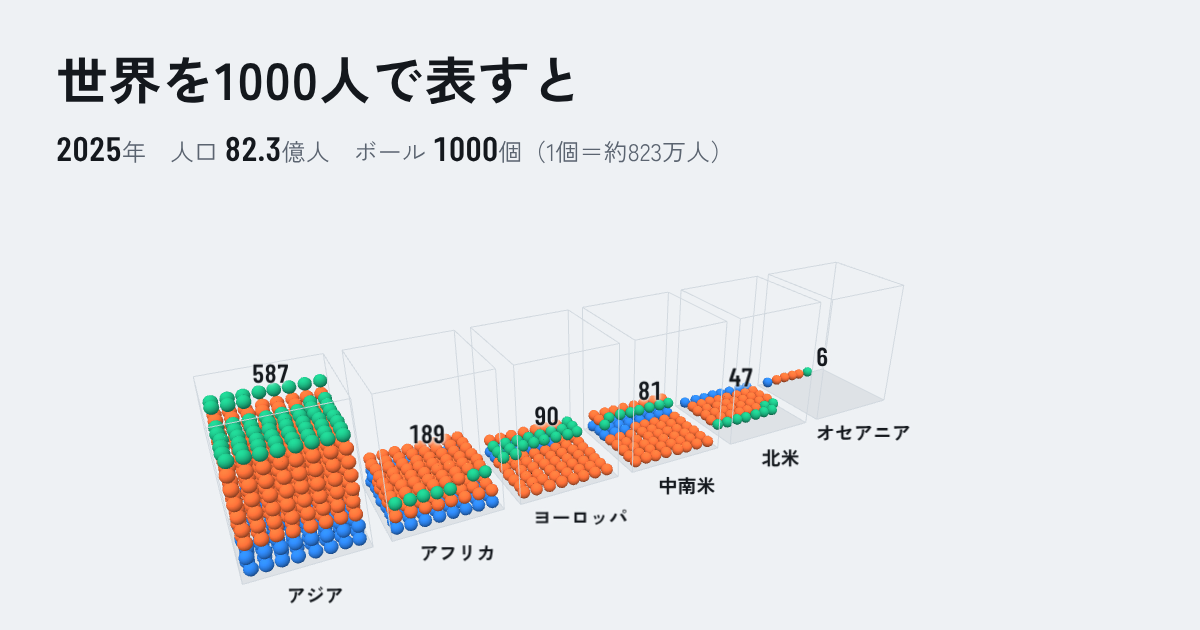
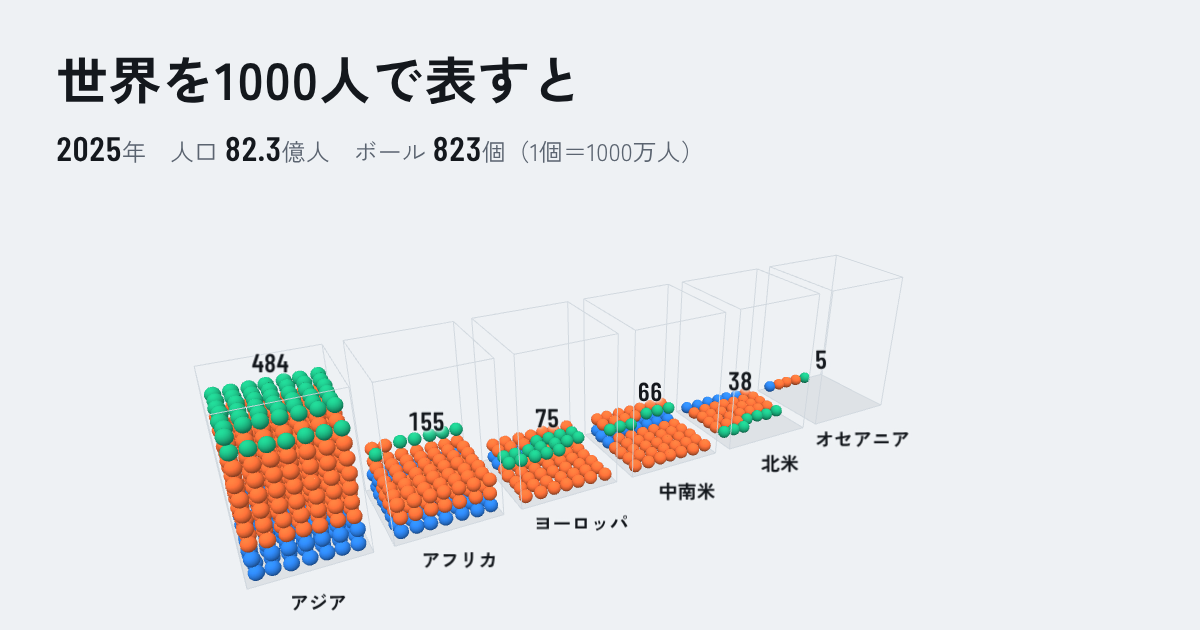
ボール1個を1000万人に変更
切りのよい単位にする。2025年は823個、1950年は249個、2075年は1025個。

Claude-Session: https://claude.ai/code/session_01PEzRMkV5e5FMVMQ2eBx1oB

Changed region(s): [[0.1542, 0.5429, 0.7708, 0.9349], [0.3392, 0.2111, 0.5858, 0.2714], [0.2467, 0.9349, 0.3083, 0.9651]]

diff --git a/index.html b/index.html
@@ -4,9 +4,9 @@
 <meta charset="utf-8">
 <meta name="viewport" content="width=device-width, initial-scale=1">
 <title>世界を1000人で表すと</title>
-<meta name="description" content="2025年の世界の人口を1000個のボールに置き換え、地域・年齢・所得で分けて見る立体グラフ。1950年から2100年まで、ボールの数で人口の増減も見られます。">
+<meta name="description" content="世界の人口を、1000万人につき1個のボールに置き換え、地域・年齢・所得で分けて見る立体グラフ。1950年から2100年まで、ボールの数で人口の増減も見られます。">
 <meta property="og:title" content="世界を1000人で表すと">
-<meta property="og:description" content="2025年の世界の人口を1000個のボールに置き換え、地域・年齢・所得で分けて見る立体グラフ。1950年から2100年まで、ボールの数で人口の増減も見られます。">
+<meta property="og:description" content="世界の人口を、1000万人につき1個のボールに置き換え、地域・年齢・所得で分けて見る立体グラフ。1950年から2100年まで、ボールの数で人口の増減も見られます。">
 <meta property="og:type" content="website">
 <meta property="og:url" content="https://world-as-1000-people.structure-and-representation.com/">
 <meta property="og:image" content="https://world-as-1000-people.structure-and-representation.com/ogp.png">
@@ -97,14 +97,14 @@ h1{padding-right:84px}
   <div class="row"><span>色</span><div class="seg" id="s-c"></div></div>
   <details id="about">
     <summary>このページについて・出典</summary>
-    <p>2025年の世界の人口を1000個のボールに置き換えた実験です。ボール1個は約823万人で、どの年でも同じです。そのため、ほかの年はボールの数が変わります（1950年は303個、2100年は1237個）。筒の底面積はすべて同じなので、高さがそのまま人数を表し、年どうしでも比べられます。</p>
+    <p>世界の人口を、1000万人につき1個のボールに置き換えた実験です。ボール1個の人数はどの年でも同じなので、年によってボールの数が変わります（1950年は249個、2025年は823個、2100年は1018個）。筒の底面積はすべて同じなので、高さがそのまま人数を表し、年どうしでも比べられます。</p>
     <p>出典：United Nations, DESA, Population Division. <a href="https://population.un.org/wpp/">World Population Prospects 2024</a>（<a href="https://creativecommons.org/licenses/by/3.0/igo/">CC BY 3.0 IGO</a>）。各年7月1日時点の人口で、2025年以降は中位推計です。年齢は3区分に集計しています。所得グループは、同データが採用する世界銀行の分類を、すべての年に当てはめています。ボールの数に丸めているため、各グループの個数には1個程度のずれが出ます。</p>
     <p>制作：矢崎裕一（Visualizing.JP）</p>
   </details>
 </div>
 <script src="https://cdnjs.cloudflare.com/ajax/libs/three.js/r128/three.min.js"></script>
 <script>
-const DATA={"years": [1950, 1975, 2000, 2025, 2050, 2075, 2100], "total": [2.493, 4.071, 6.172, 8.232, 9.664, 10.25, 10.18], "n": [303, 495, 750, 1000, 1174, 1245, 1237], "unit": 8232, "cells": {"1950": "!\"\"\"\"\"\"\"\"\"\"\"\"\"\"\"\"\"\"\"\"\"\"\"\"\"##############################$$$$$&&''''''''''''''''''''''''''''''''''''''((((((((((((((((((((((((((((((((((((((((((((((((())))))))),,----.000011111125555556666666667;@AAAAABBBBBBBBBBBBEEEFFFFFFFFFFGGGGGGGGGGGGGGGGGGGGGGGGGGGGGGKLLLLOPPPPPPPQTUUUUUUUUUVZ``````eeeeeeeeeeeeejjt{{{{{{{{{{{{{{{{{{{{{{{{{{{{{{{{{{{{{{{{{{{{{{{{{{{{{{{{{{{{{{{{{{{{{{{{{{{{{{{{{{{{{{{{{{{{{{{{{{{{{{{{{{{{{{{{{{{{{{{{{{{{{{{{{{{{{{{{{{{{{{{{{{{{{{{{{{{{{{{{{{{{{{{{{{{{{{{{{{{{{{{{{{{{{{{{{{{{{{{{{{{{{{{{{{{{{{{{{{{{{{{{{{{{{{{{{{{{{{{{{{{{{{{{{{{{{{{{{{{{{{{{{{{{{{{{{{{{{{{{{{{{{{{{{{{{{{{{{{{{{{{{{{{{{{{{{{{{{{{{{{{{{{{{{{{{{{{{{{{{{{{{{{{{{{{{{{{{{{{{{{{{{{{{{{{{{{{{{{{{{{{{{{{{{{{{{{{{{{{{{{{{{{{{{{{{{{{{{{{{{{{{{{{{{{{{{{{{{{{{{{{{{{{{{{{{{{{{{{{{{{{{{{{{{{{{{{{{{{{{{{{{{{{{{{{{{{{{{{{{{{{{{{{{{{{{{{{{{{{{{{{{{{{{{{{{{{{{{{{{{{{{{{{{{{{{{{{{{{{{{{{{{{{{{{{{{{{{{{{{{{{{{{{{{{{{{{{{{{{{{{{{{{{{{{{{{{{{{{{{{{{{{{{{{{{{{{{{{{{{{{{{{{{{{{{{{{{{{{{{{{{{{{{{{{{{{{{{{{{{{{{{{{{{{{{{{{{{{{{{{{{{{{{{{{{{{{{{{{{{{{{{{{{{{{{{{{{{{{{{{{{{{{{{{{{{{{{{{{{{{{{{{{{{{{{{{{{{{{{{{{{{{{{{{{{{{{{{{{{{{{{{{{{{{{{{{{{{{{{{{{{{{{{{{{{{{{{{{{{{{{{{{{{{{{{{{{{{{{{{{{{{{{{{{{{{{{{{{{{{{{{{{{{{{{{{{{{{{{{{{{{{{{{{{{{{{{{{{{{{{{{{{{{{{{{{{{{{{{{{{{", "1975": "!\"\"\"\"\"\"\"\"\"\"\"\"\"\"\"\"\"\"\"\"\"\"\"\"\"##############################$$$$$&&''''''''''''''''''''''''''''''''''''''((((((((((((((((((((((((((((((((((((((((((((((((())))))))),,----.000011111125555556666666667;@AAAAABBBBBBBBBBBBEEEFFFFFFFFFFGGGGGGGGGGGGGGGGGGGGGGGGGGGGGGKLLLLOPPPPPPPQTUUUUUUUUUVZ``````eeeeeeeeeeeeejjt!\"\"\"\"\"\"\"\"\"\"\"\"\"\"\"\"\"\"\"\"\"\"\"\"############################$$&'''''''''''''''''''''''''''((((((((((((((((((((((((((((((())))),,--000001111111255556666667:BEFFFFGGGGGJKLLLPPPPPPPRUUUUUUUUUVW`eeeeeejo{{{{{{{{{{{{{{{{{{{{{{{{{{{{{{{{{{{{{{{{{{{{{{{{{{{{{{{{{{{{{{{{{{{{{{{{{{{{{{{{{{{{{{{{{{{{{{{{{{{{{{{{{{{{{{{{{{{{{{{{{{{{{{{{{{{{{{{{{{{{{{{{{{{{{{{{{{{{{{{{{{{{{{{{{{{{{{{{{{{{{{{{{{{{{{{{{{{{{{{{{{{{{{{{{{{{{{{{{{{{{{{{{{{{{{{{{{{{{{{{{{{{{{{{{{{{{{{{{{{{{{{{{{{{{{{{{{{{{{{{{{{{{{{{{{{{{{{{{{{{{{{{{{{{{{{{{{{{{{{{{{{{{{{{{{{{{{{{{{{{{{{{{{{{{{{{{{{{{{{{{{{{{{{{{{{{{{{{{{{{{{{{{{{{{{{{{{{{{{{{{{{{{{{{{{{{{{{{{{{{{{{{{{{{{{{{{{{{{{{{{{{{{{{{{{{{{{{{{{{{{{{{{{{{{{{{{{{{{{{{{{{{{{{{{{{{{{{{{{{{{{{{{{{{{{{{{{{{{{{{{{{{{{{{{{{{{{{{{{{{{{{{{{{{{{{{{{{{{{{{{{{{{{{{{{{{{{{{{{{{{{{{{{{{{{{{{{{{{{{{{{{{{{{{{{{{{{{{{{{{{{{{{{{{{{{{{{{{{{{{{{{{{{{{{{{{{{{{{{{{{{{{{{{{{{{{{{{{{{{{{{{{{{{{{{{{{{{{{{{{{{{{{{{{{{{{{{{{{{{{{{{{{{{{{{{{{{{{{{{{{{{{{{{{{{", "2000": "!\"\"\"\"\"\"\"\"\"\"\"\"\"\"\"\"\"\"\"\"\"\"\"\"\"##############################$$$$$&&''''''''''''''''''''''''''''''''''''''((((((((((((((((((((((((((((((((((((((((((((((((())))))))),,----.000011111125555556666666667;@AAAAFBBBBBBBBBBGGEEEFFFFFFFFFFGGGGGGGGGGGGGGGGGGGGGGGGGGGGGGKLLLLOPPPPPPPQTUUUUUUUUUVZ``````eeeeeeeeeeeeejjt!\"\"\"\"\"\"\"\"\"\"\"\"\"\"\"\"\"\"\"\"\"\"\"\"########################!!\"\"$\"&'''''''''''''''''''''''''''((((((((((((((((((((((((((((((())))),,--000001111111255556666667:GEFFFFGGGGGJKLLLPPPPPPPRUUUUUUUUUVW`eeeeeejo\"\"\"\"\"\"\"\"\"\"\"\"\"\"\"\"\"\"\"\"\"\"\"\"&&''''''''''''''''''''''''''''''''''''''''''''''''''''''''''''((((((((((((((((((((((((((((((((((((((((((((((((((((((((((()))))),,,,,--------...00000000011111111112555555555666666666666666677;FGGKLLOPPPTUUUUUUUUUUUUUUUWZZ`eeeeeejjrt{{{{{{{{{{{{{{{{{{{{{{{{{{{{{{{{{{{{{{{{{{{{{{{{{{{{{{{{{{{{{{{{{{{{{{{{{{{{{{{{{{{{{{{{{{{{{{{{{{{{{{{{{{{{{{{{{{{{{{{{{{{{{{{{{{{{{{{{{{{{{{{{{{{{{{{{{{{{{{{{{{{{{{{{{{{{{{{{{{{{{{{{{{{{{{{{{{{{{{{{{{{{{{{{{{{{{{{{{{{{{{{{{{{{{{{{{{{{{{{{{{{{{{{{{{{{{{{{{{{{{{{{{{{{{{{{{{{{{{{{{{{{{{{{{{{{{{{{{{{{{{{{{{{{{{{{{{{{{{{{{{{{{{{{{{{{{{{{{{{{{{{{{{{{{{{{{{{{{{{{{{{{{{{{{{{{{{{{{{{{{{{{{{{{{{{{{{{{{{{{{{{{{{{{{{{{{{{{{{{{{{{{{{{{{{{{{{{{{{{{{{{{{{{{{{{{{{{{{{{{{{{{{{{{{{{{{{{{{{{{{{{{{{{{{{{{{{{", "2025": "!\"\"\"\"\"\"\"\"\"\"\"\"\"\"\"\"\"\"\"\"\"\"\"\"\"##############################$$$$$&&''''''''''''''''''''''''''''''''''''''((((((((((((((((((((((((((((((((((((((((((((((((())))))))),,----.000011111125555556666666667;@AAAAFBBBBBBBBBLGGEEEFFFFFFFFFFGGGGGGGGGGGGGGGGGGGGGGGGGGGGGGKLLLLOPPPPPPPQTUUUUUUUUUVZ``````eeeeeeeeeeeeejjt!\"\"\"\"\"\"\"\"\"\"\"\"\"\"\"\"\"\"\"\"\"\"\"\"#############!!(((((((((!!\"\")\"&'''''''''''''''''''''''''''((((((((((((((((((((((((((((((())))),,--000001111111255556666667:GKFFFLGGGGGJKLLLPPPPPPPRUUUUUUUUUVW`eeeeeejo\"\"\"\"\"\"\"\"\"\"\"\"\"\"\"\"\"\"\"\"\"\"\"\"&&''''''''''''''''''''''''''''''''''''''''''''''''''''''''''''((((((((((((((((((((((((((((((((((((((((((((((((((((((((((()))))),,,,,--------...00000000011111111112555555555666666666666666677;LGGKLLOPUUTUUUUUUUUUUUUUUUWZZ`eeeeeejjrt&&&&&'''''''''''''''''''''''''''''''''''''''''''''''''''''''''''''''''''''''((((((((((((((((((())+,,,,,,,,,,,,------------------...000000000000000111111111111115555555555555555555555556666666666666666666666666666777:;;<LLTUUUUUUUUUUUVZZZZ[eeeeejjjjty{{{{{{{{{{{{{{{{{{{{{{{{{{{{{{{{{{{{{{{{{{{{{{{{{{{{{{{{{{{{{{{{{{{{{{{{{{{{{{{{{{{{{{{{{{{{{{{{{{{{{{{{{{{{{{{{{{{{{{{{{{{{{{{{{{{{{{{{{{{{{{{{{{{{{{{{{{{{{{{{{{{{{{{{{{{{{{{{{{{{{{{{{{{{{{{{{{{{{{{{{{{{{{{{{{{{{{{{{{{{{{{{{{{{{{{{{{{{{{{{{{{{{", "2050": "!\"\"\"\"\"\"\"\"\"\"\"\"\"\"\"\"\"\"\"\"\"\"\"\"\"##############################$$$$$&&''''''''''''''''''''''''''''''''''''''((((((((((((((((((((((((((((((((((((((((((((((((())))))))),,----.000011111125555556666666667;KAAALFBBBBBBBBLLGGEELFFFFFFFFFFGGGGGGGGGGGGGGGGGGGGGGGGGGGGGGKLLLLOPPPPPPPQTUUUUUUUUUVZ``````eeeeeeeeeeeeejjt!\"\"\"\"\"\"\"\"\"\"\"\"\"\"\"\"\"\"\"\"\"\"\"\"!------------!!(((((((((!!\"\")\"&'''''''''''''''''''''''''''((((((((((((((((((((((((((((((())))),,--000001111111255556666667:GKFL7LGGee&JKLLLPPPPPUURUUUUUUUUUVW`eeeeeejo\"\"\"\"\"\"\"\"\"\"\"\"\"\"\"\"\"'''''''&&''''''''''''''''''''''''''''''''''''''''''''''''''''''''''''(((((((((((((((((((((((((((((((((((((((((((((((((((((&&&&&&)))))',,,,,--------...00000000011111111112555555555666666666666666677;L''KLLTZUUTUUUUUUUUUUUUUUUWZZ`eeeeeejjrt&&&&&''''''''''''''''''''''''''''''''''''''''''''''''''''''''''''''''''''''''''''''''''''''''''''+,,,,,,,,,,,,------------------...000000000000000111111111111115555555555555555555555556666666666666666666666666666777:;;<LLTUUUUUUUUUUUVZZZZ[eeeeejjjjty''''''+,,,,,,,,,,,,,,,,,,,,,,,,,,,-----------------..000000000000111111115555555555555555555555555555555555555555566666666666666666666666666666666666666::::;;;;;;YZZZZZZ\\jjjm{{{{{{{{{{{{{{{{{{{{{{{{{{{{{{{{{{{{{{{{{{{{{{{{{{{{{{{{{{{{{{{{{{{{{{{", "2075": "!\"\"\"\"\"\"\"\"\"\"\"\"\"\"\"\"\"\"\"\"\"\"\"\"\"######################!-----&&$$$$$&&''''''''''''''''''''''''''''''''''''''((((((((((((((((((((((((((((((((((((((((((((((((())))))))),,----.000011111125555556666666667;KAAALFBBBBBBB0LLGGEELFFFFFFFFFFGGGGGGGGGGGGGGGGGGGGGGGGGGGGG&KLLLLOPPPPPPPTTUUUUUUUUUVZ``````eeeeeeeeeeeeejjt!\"\"\"\"\"\"\"\"\"\"\"\"\"\"\"\"\"\"\"\"\"\"\"\"!------------!!(((((((((!!\"\")\"&'''''''''''''''''''''''''''((((((((((((((((((((((((((((((())))),,--000001111111255556666667:&K7L7L55ee&JKLLLPPPZZUURUUUUUUUUUVW`eeeeeejo\"\"\"\"\"\"\"\",,,,,,,,,'''''''&&''''''''''''''''''''''''''''''''''''''''''''''''''''''''''''(((((((((((((((((++,,,,,,,,,,,,,,,,,,,,,,,55555555555&&&&&&))))5',,,,,--------...00000000011111111112555555555666666666666666677;L''KLLTZUUTUUUUUUUUUUUUUUUWZZ`eeeeeejjrt&&&&&''''''''''''''''''''''''''''''''''''''''''''''''''''''''''''''''''''''''''''''''''''''666666+,,,,,,,,,,,,------------------...000000000000000111111111111115555555555555555555555556666666666666666666666666666777:;;<LLTUUUZZZZ55555ZZZZ[eeeeejjjjty666666+,,,,,,,,,,,,,,,,,,,,,,,,,,,-----------------..000000000000111111115555555555555555555555555555555555555555566666666666666666666666666666666666666::::;;;;;;YZZZZZZ\\jjjm0001155555555555555555555566666666666666666666::::::::::;;;;;;;;;;<jjjr", "2100": "!\"\"\"\"\"\"\"\"\"\"\"\"\"\"\"\"\"\"\"\"\"\"\"\"\"#################&&++,!-----&&$$$$$&&''''''''''''''''''''''''''''''''''''''((((((((((((((((((((((((((((((((((((((((((((((((())))))))),,----.000011111125555556666666667;KAA7LFBBBBBBB0LLGGE6LFFFFFFFFF5GGGGGGGGGGGGGGGGGGGGGGGGGGGe5&KLLLLOPPPPPPPTTUUUUUUUUUVZ``````eeeeeeeeeeeeejjt!\"\"\"\"\"\"\"\"\"\"\"\"\"\"\"\"\"\"\"\"\"\"\"\"!------------!!(((((((((!,\"\"),&'''''''''''''''''''''''''''((((((((((((((((((((((,,,,,,,,,))))),,--000001111111255556666667:&K7L7L55ee&JKLLLPY<ZZUU5UUUUUUUUUVW`eeeeeejo66666666,,,,,,,,,'''''''&&''''''''''''''''''''''''''''''''''''''''''''''''''''''''''''55555555555555555++,,,,,,,,,,,,,,,,,,,,,,,55555555555&&&&&&))))5',,,,,--------...00000000011111111112555555555666666666666666677;L''KLLTZUUTUUUUUUUUUUU5566WZZ`eeeeeejjrt&&&&&'''''''''''''''''''''''''''''''''''''''''''''''''''''''''''''6666;;;;;;;;;;;;;;:::::::666666+,,,,,,,,,,,,------------------...000000000000000111111111111115555555555555555555555556666666666666666666666666666777:;;<Lj::::ZZZZ55555ZZZZ[eeeeejjjjty666666+,,,,,,,,,,,,,,,,,,,,,,,,,,,-------::::jy{{{{..000000000000111111115555555555555555555555555555555555555555566666666666666666666666666666666666666::::;;;;;;YZZZZZZ\\jjj{0{{1{55555555555555555555566666666666666666666::::::::::;;;;;;;;;;<jjjr"}};
+const DATA={"years": [1950, 1975, 2000, 2025, 2050, 2075, 2100], "total": [2.493, 4.071, 6.172, 8.232, 9.664, 10.25, 10.18], "n": [249, 407, 617, 823, 966, 1025, 1018], "unit": 10000, "cells": {"1950": "!\"\"\"\"\"\"\"\"\"\"\"\"\"\"\"\"\"\"\"\"\"########################$$$$&'''''''''''''''''''''''''''''''((((((((((((((((((((((((((((((((((((((((())))))),,---.00001111125555566666667@AAAABBBBBBBBBBEEFFFFFFFFFGGGGGGGGGGGGGGGGGGGGGGGGGKLLLPPPPPPQTUUUUUUUUV`````eeeeeeeeeeejt{{{{{{{{{{{{{{{{{{{{{{{{{{{{{{{{{{{{{{{{{{{{{{{{{{{{{{{{{{{{{{{{{{{{{{{{{{{{{{{{{{{{{{{{{{{{{{{{{{{{{{{{{{{{{{{{{{{{{{{{{{{{{{{{{{{{{{{{{{{{{{{{{{{{{{{{{{{{{{{{{{{{{{{{{{{{{{{{{{{{{{{{{{{{{{{{{{{{{{{{{{{{{{{{{{{{{{{{{{{{{{{{{{{{{{{{{{{{{{{{{{{{{{{{{{{{{{{{{{{{{{{{{{{{{{{{{{{{{{{{{{{{{{{{{{{{{{{{{{{{{{{{{{{{{{{{{{{{{{{{{{{{{{{{{{{{{{{{{{{{{{{{{{{{{{{{{{{{{{{{{{{{{{{{{{{{{{{{{{{{{{{{{{{{{{{{{{{{{{{{{{{{{{{{{{{{{{{{{{{{{{{{{{{{{{{{{{{{{{{{{{{{{{{{{{{{{{{{{{{{{{{{{{{{{{{{{{{{{{{{{{{{{{{{{{{{{{{{{{{{{{{{{{{{{{{{{{{{{{{{{{{{{{{{{{{{{{{{{{{{{{{{{{{{{{{{{{{{{{{{{{{{{{{{{{{{{{{{{{{{{{{{{{{{{{{{{{{{{{{{{{{{{{{{{{{{{{{{{{{{{{{{{{{{{{{{{{{{{{{{{{{{{{{{{{{{{{{{{{{{{{{{{{{{{{{{{{{{{{{{{{{{{{{{{{{{{{{{{{{{{{{{{{{{{{{{{{{{{{{{{{{{{{{{{{{{{{{{{{{{{{{{{{{{{{{{{{{{{{{{{{{{{{{{{{{{{{{{", "1975": "!\"\"\"\"\"\"\"\"\"\"\"\"\"\"\"\"\"\"\"\"\"########################$$$$&'''''''''''''''''''''''''''''''((((((((((((((((((((((((((((((((((((((((())))))),,---.00001111125555566666667@AAAABBBBBBBBBBEEFFFFFFFFFGGGGGGGGGGGGGGGGGGGGGGGGGKLLLPPPPPPQTUUUUUUUUV`````eeeeeeeeeeejt!\"\"\"\"\"\"\"\"\"\"\"\"\"\"\"\"\"\"\"\"########################$&''''''''''''''''''''''((((((((((((((((((((((((())))),,--00011111555666667;BEFFFGGGGJKLLLOPPPPPRUUUUUUUWZ`eeeeej{{{{{{{{{{{{{{{{{{{{{{{{{{{{{{{{{{{{{{{{{{{{{{{{{{{{{{{{{{{{{{{{{{{{{{{{{{{{{{{{{{{{{{{{{{{{{{{{{{{{{{{{{{{{{{{{{{{{{{{{{{{{{{{{{{{{{{{{{{{{{{{{{{{{{{{{{{{{{{{{{{{{{{{{{{{{{{{{{{{{{{{{{{{{{{{{{{{{{{{{{{{{{{{{{{{{{{{{{{{{{{{{{{{{{{{{{{{{{{{{{{{{{{{{{{{{{{{{{{{{{{{{{{{{{{{{{{{{{{{{{{{{{{{{{{{{{{{{{{{{{{{{{{{{{{{{{{{{{{{{{{{{{{{{{{{{{{{{{{{{{{{{{{{{{{{{{{{{{{{{{{{{{{{{{{{{{{{{{{{{{{{{{{{{{{{{{{{{{{{{{{{{{{{{{{{{{{{{{{{{{{{{{{{{{{{{{{{{{{{{{{{{{{{{{{{{{{{{{{{{{{{{{{{{{{{{{{{{{{{{{{{{{{{{{{{{{{{{{{{{{{{{{{{{{{{{{{{{{{{{{{{{{{{{{{{{{{{{{{{{{{{{{{{{{{{{{{{{{{{{{{{{{{{{{{{{{{{{{{{{{{{{{{{{{{{{{{{{{{{{{{{{{{{{{{{{{{{{{{", "2000": "!\"\"\"\"\"\"\"\"\"\"\"\"\"\"\"\"\"\"\"\"\"########################$$$$&'''''''''''''''''''''''''''''''((((((((((((((((((((((((((((((((((((((((())))))),,---.00001111125555566666667@AAAFBBBBBBBBGGEEFFFFFFFFFGGGGGGGGGGGGGGGGGGGGGGGGGKLLLPPPPPPQTUUUUUUUUV`````eeeeeeeeeeejt!\"\"\"\"\"\"\"\"\"\"\"\"\"\"\"\"\"\"\"\"####################!\"\"\"$&''''''''''''''''''''''((((((((((((((((((((((((())))),,--00011111555666667;GEFFFGGGGJKLLLOPPPPPRUUUUUUUWZ`eeeeej\"\"\"\"\"\"\"\"\"\"\"\"\"\"\"\"\"\"\"&&''''''''''''''''''''''''''''''''''''''''''''''''''((((((((((((((((((((((((((((((((((((((((((((((((())))),,,------..0000000111111111255555555666666666666677:;GLLPPPTUUUUUUUUUUUUVWZ`eeeeejjot{{{{{{{{{{{{{{{{{{{{{{{{{{{{{{{{{{{{{{{{{{{{{{{{{{{{{{{{{{{{{{{{{{{{{{{{{{{{{{{{{{{{{{{{{{{{{{{{{{{{{{{{{{{{{{{{{{{{{{{{{{{{{{{{{{{{{{{{{{{{{{{{{{{{{{{{{{{{{{{{{{{{{{{{{{{{{{{{{{{{{{{{{{{{{{{{{{{{{{{{{{{{{{{{{{{{{{{{{{{{{{{{{{{{{{{{{{{{{{{{{{{{{{{{{{{{{{{{{{{{{{{{{{{{{{{{{{{{{{{{{{{{{{{{{{{{{{{{{{{{{{{{{{{{{{{{{{{{{{{{{{{{{{{{{{{{{{{{{{{{{{{{{{{{{{{{{{{{{{{{{{{{{{{{{{{{{{{{{{{{{{{{{{{{{{{{{{{{{{{{{{{{{{{{", "2025": "!\"\"\"\"\"\"\"\"\"\"\"\"\"\"\"\"\"\"\"\"\"########################$$$$&'''''''''''''''''''''''''''''''((((((((((((((((((((((((((((((((((((((((())))))),,---.00001111125555566666667KAAAFBBBBBBBBGGEEFFFFFFFFFGGGGGGGGGGGGGGGGGGGGGGGGGKLLLPPPPPPQTUUUUUUUUV`````eeeeeeeeeeejt!\"\"\"\"\"\"\"\"\"\"\"\"\"\"\"\"\"\"\"\"###########!!(((((((!\"\"\")&''''''''''''''''''''''((((((((((((((((((((((((())))),,--00011111555666667;GEFFLGGGGJKLLLOPPPPPRUUUUUUUWZ`eeeeej\"\"\"\"\"\"\"\"\"\"\"\"\"\"\"\"\"\"\"&&''''''''''''''''''''''''''''''''''''''''''''''''''((((((((((((((((((((((((((((((((((((((((((((((((())))),,,------..0000000111111111255555555666666666666677:;GLLPUUTUUUUUUUUUUUUVWZeeeeeejjot&&&&'''''''''''''''''''''''''''''''''''''''''''''''''''''''''''(((((((((((((((()+,,,,,,,,,,---------------...000000000000011111111111155555555555555555556666666666666666666666677:;<LLLTUUUUUUUUUZZZZeeejjjry{{{{{{{{{{{{{{{{{{{{{{{{{{{{{{{{{{{{{{{{{{{{{{{{{{{{{{{{{{{{{{{{{{{{{{{{{{{{{{{{{{{{{{{{{{{{{{{{{{{{{{{{{{{{{{{{{{{{{{{{{{{{{{{{{{{{{{{{{{{{{{{{{{{{{{{{{{{{{{{{{{{{{{{{{{{{{{{{{{{{{{{{{{{{{{{{{{{{{{{{{{", "2050": "!\"\"\"\"\"\"\"\"\"\"\"\"\"\"\"\"\"\"\"\"\"########################$$$$&'''''''''''''''''''''''''''''''((((((((((((((((((((((((((((((((((((((((())))))),,---.00001111125555566666667KAAKFBBBBBBBLGGEEFFFFFFFFFGGGGGGGGGGGGGGGGGGGGGGGGGKLLLPPPPPP[TUUUUUUUUV`````eeeeeeeeeeejt!\"\"\"\"\"\"\"\"\"\"\"\"\"\"\"\"\"\"\"\"#!---------!!(((((((!\"\"\")&''''''''''''''''''''''((((((((((((((((((((((((())))),,--00011111555666667;GLL7LGe&&JKLLLOPPPPURUUUUUUUWZ`eeeeej\"\"\"\"\"\"\"\"\"\"\"\"'''''''&&''''''''''''''''''''''''''''''''''''''''''''''''''((((((((((((((((((((((((((((((((((((((((((((&&&&'))))',,,------..0000000111111111255555555666666666666677:;'LLZUUTUUUUUUUUUUUUVWZeeeeeejjot&&&&''''''''''''''''''''''''''''''''''''''''''''''''''''''''''''''''''''''''''''+,,,,,,,,,,---------------...000000000000011111111111155555555555555555556666666666666666666666677:;<LLLTUUUUUUUUUZZZZeeejjjry''+,,,,,,,,,,,,,,,,,,,,,,---------------..0000000000111111555555555555555555555555555555555566666666666666666666666666666666:::;;;;;TYZZZZZ`jjj{{{{{{{{{{{{{{{{{{{{{{{{{{{{{{{{{{{{{{{{{{{{{{{{{{{{{{{{{{{", "2075": "!\"\"\"\"\"\"\"\"\"\"\"\"\"\"\"\"\"\"\"\"\"##################----&&$$$$&'''''''''''''''''''''''''''''''((((((((((((((((((((((((((((((((((((((((())))))),,---.00001111125555566666667KAAKFBBBBBB0LGGE6FFFFFFFF7GGGGGGGGGGGGGGGGGGGGGGGGtKLLLPPPPPP[TUUUUUUUUV`````eeeeeeeeeeejt!\"\"\"\"\"\"\"\"\"\"\"\"\"\"\"\"\"\"\"\"&!---------!!(((((((!\"\"\")&''''''''''''''''''''''((((((((((((((((((((((((())))),,--00011111555666667;&LL7L5e&&JKLLLOPPZZURUUUUUUUWZ`eeeeej\"\"\"\"\",,,,,,,'''''''&&''''''''''''''''''''''''''''''''''''''''''''''''''((((((((((((((+,,,,,,,,,,,,,,,,,,,,555555555&&&&')))5',,,------..0000000111111111255555555666666666666677:;'LLZUUTUUUUUUUUUUUUVWZeeeeeejjot&&&&'''''''''''''''''''''''''''''''''''''''''''''''''''''''''''''''''''''6666666+,,,,,,,,,,---------------...000000000000011111111111155555555555555555556666666666666666666666677:;<LLjTUUUZZZ\\55ZZZZeeejjjry66+,,,,,,,,,,,,,,,,,,,,,,---------------.j0000000000111111555555555555555555555555555555555566666666666666666666666666666666:::;;;;;TYZZZZZ`jjj0011555555555555555555556666666666666666::::::::;;;;;;;;;<m", "2100": "!\"\"\"\"\"\"\"\"\"\"\"\"\"\"\"\"\"\"\"\"\"##############&++,----&&$$$$&'''''''''''''''''''''''''''''''((((((((((((((((((((((((((((((((((((((((())))))),,---.00001111125555566666667KAAKFBBBBBB0LGGE6FFFFFFF57GGGGGGGGGGGGGGGGGGGGGGe5tKLLLPPPPPP[TUUUUUUUUV`````eeeeeeeeeeejt!\"\"\"\"\"\"\"\"\"\"\"\"\"\"\"\"\"\"\"\"&!---------!!(((((((!\",,)&''''''''''''''''''''''((((((((((((((((((,,,,,,,))))),,--00011111555666667;&LL7L5e&&JKLLLO55ZZU5UUUUUUUWZ`eeeeej66666,,,,,,,'''''''&&''''''''''''''''''''''''''''''''''''''''''''''''''55555555555556+,,,,,,,,,,,,,,,,,,,,555555555&&&&')))5',,,------..0000000111111111255555555666666666666677:;'LLZUUTUUUUUUUUU6666WZeeeeeejjot&&&&'''''''''''''''''''''''''''''''''''''''''''''''''66;;;;;;;;;;;:::::::6666666+,,,,,,,,,,---------------...000000000000011111111111155555555555555555556666666666666666666666677:;<LLjT:::ZZZ\\55ZZZZeeejjjry66+,,,,,,,,,,,,,,,,,,,,,,-------:::jj{{{.j0000000000111111555555555555555555555555555555555566666666666666666666666666666666:::;;;;;TYZZZZ{`jjj0{1{555555555555555555556666666666666666::::::::;;;;;;;;;<{"}};
 (function(){
 "use strict";
 const YEARS=DATA.years, N=DATA.cells[YEARS[0]].length, ABS=90; /* N = most balls any year needs; ABS = ball absent this year */
@@ -377,7 +377,7 @@ function detail(){
 }
 function fact(){
   const k=YEARS.indexOf(state.year),t=DATA.total[k];
-  document.getElementById("fact").innerHTML="<b>"+state.year+"</b>年　人口 <b>"+(t*10).toFixed(1)+"</b>億人　ボール <b>"+DATA.n[k]+"</b>個（1個＝約"+Math.round(DATA.unit/10)+"万人）";
+  document.getElementById("fact").innerHTML="<b>"+state.year+"</b>年　人口 <b>"+(t*10).toFixed(1)+"</b>億人　ボール <b>"+DATA.n[k]+"</b>個（1個＝"+Math.round(DATA.unit/10)+"万人）";
 }
 
 /* ---------- controls ---------- */

diff --git a/src/head.html b/src/head.html
@@ -4,9 +4,9 @@
 <meta charset="utf-8">
 <meta name="viewport" content="width=device-width, initial-scale=1">
 <title>世界を1000人で表すと</title>
-<meta name="description" content="2025年の世界の人口を1000個のボールに置き換え、地域・年齢・所得で分けて見る立体グラフ。1950年から2100年まで、ボールの数で人口の増減も見られます。">
+<meta name="description" content="世界の人口を、1000万人につき1個のボールに置き換え、地域・年齢・所得で分けて見る立体グラフ。1950年から2100年まで、ボールの数で人口の増減も見られます。">
 <meta property="og:title" content="世界を1000人で表すと">
-<meta property="og:description" content="2025年の世界の人口を1000個のボールに置き換え、地域・年齢・所得で分けて見る立体グラフ。1950年から2100年まで、ボールの数で人口の増減も見られます。">
+<meta property="og:description" content="世界の人口を、1000万人につき1個のボールに置き換え、地域・年齢・所得で分けて見る立体グラフ。1950年から2100年まで、ボールの数で人口の増減も見られます。">
 <meta property="og:type" content="website">
 <meta property="og:url" content="https://world-as-1000-people.structure-and-representation.com/">
 <meta property="og:image" content="https://world-as-1000-people.structure-and-representation.com/ogp.png">
@@ -97,7 +97,7 @@ h1{padding-right:84px}
   <div class="row"><span>色</span><div class="seg" id="s-c"></div></div>
   <details id="about">
     <summary>このページについて・出典</summary>
-    <p>2025年の世界の人口を1000個のボールに置き換えた実験です。ボール1個は約823万人で、どの年でも同じです。そのため、ほかの年はボールの数が変わります（1950年は303個、2100年は1237個）。筒の底面積はすべて同じなので、高さがそのまま人数を表し、年どうしでも比べられます。</p>
+    <p>世界の人口を、1000万人につき1個のボールに置き換えた実験です。ボール1個の人数はどの年でも同じなので、年によってボールの数が変わります（1950年は249個、2025年は823個、2100年は1018個）。筒の底面積はすべて同じなので、高さがそのまま人数を表し、年どうしでも比べられます。</p>
     <p>出典：United Nations, DESA, Population Division. <a href="https://population.un.org/wpp/">World Population Prospects 2024</a>（<a href="https://creativecommons.org/licenses/by/3.0/igo/">CC BY 3.0 IGO</a>）。各年7月1日時点の人口で、2025年以降は中位推計です。年齢は3区分に集計しています。所得グループは、同データが採用する世界銀行の分類を、すべての年に当てはめています。ボールの数に丸めているため、各グループの個数には1個程度のずれが出ます。</p>
     <p>制作：矢崎裕一（Visualizing.JP）</p>
   </details>

diff --git a/src/app.js b/src/app.js
@@ -270,7 +270,7 @@ function detail(){
 }
 function fact(){
   const k=YEARS.indexOf(state.year),t=DATA.total[k];
-  document.getElementById("fact").innerHTML="<b>"+state.year+"</b>年　人口 <b>"+(t*10).toFixed(1)+"</b>億人　ボール <b>"+DATA.n[k]+"</b>個（1個＝約"+Math.round(DATA.unit/10)+"万人）";
+  document.getElementById("fact").innerHTML="<b>"+state.year+"</b>年　人口 <b>"+(t*10).toFixed(1)+"</b>億人　ボール <b>"+DATA.n[k]+"</b>個（1個＝"+Math.round(DATA.unit/10)+"万人）";
 }
 
 /* ---------- controls ---------- */

diff --git a/scripts/prep.py b/scripts/prep.py
@@ -21,9 +21,9 @@ a["cell"]=a.reg*15+a.ageg*5+a.inc
 tot = a.groupby("year")["pop"].sum()
 w = mid[mid.country_code==900].groupby("year")["pop"].sum()
 print(pd.DataFrame({"sum":tot,"world":w}))
-# 1 ball = a fixed number of people in every year: world population of 2025 / 1000
+# 1 ball = 10 million people in every year (population is in thousands)
 ABS=90  # code for "this ball does not exist in this year"
-unit=float(w[2025])/1000
+unit=10000.0
 ns={y:int(round(float(w[y])/unit)) for y in YEARS}; NMAX=max(ns.values())
 print("unit (thousand):", unit, "balls:", ns)
 res={}; prev=None

diff --git a/README.md b/README.md
@@ -2,8 +2,8 @@
 
 https://world-as-1000-people.structure-and-representation.com/
 
-2025年の世界の人口を1000個のボールに置き換え、地域・年齢・所得で分けて見る立体グラフです。
-ボール1個は約823万人で、どの年でも同じです。ほかの年はボールの数が変わります（1950年は303個、2100年は1237個）。
+世界の人口を、1000万人につき1個のボールに置き換え、地域・年齢・所得で分けて見る立体グラフです。
+ボール1個の人数はどの年でも同じなので、年によってボールの数が変わります（1950年は249個、2025年は823個、2100年は1018個）。
 分け方を切り替えると、仕切りが消えてボールが崩れ、新しい筒に注がれます。
 
 - 年：1950年から2100年まで25年刻み（7時点）
@@ -45,7 +45,7 @@ python3 scripts/build.py src data/data.json index.html /dev/null
 - 年齢は 0〜14歳、15〜64歳、65歳以上の3区分に集計しています。
 - 所得グループは、同データが採用する世界銀行の分類を、すべての年に当てはめています。過去や将来の所得水準を表すものではありません。
   分類のない国・地域（ベネズエラなど）は「分類なし」としています。
-- ボール1個の人数は、2025年の世界人口の1000分の1（8,231,613人）に固定しています。各年のボール数は、その年の世界人口をこの人数で割って丸めた値です（1950年303、1975年495、2000年750、2025年1000、2050年1174、2075年1245、2100年1237）。
+- ボール1個は1000万人です。各年のボール数は、その年の世界人口を1000万人で割って丸めた値です（1950年249、1975年407、2000年617、2025年823、2050年966、2075年1025、2100年1018）。
 - 各年のボールは、地域×年齢×所得の90区分に最大剰余法で割り当てています。各グループの個数には1個程度のずれが出ます。
 - 年を変えたとき、同じ区分に残れるボールは残し、足りない区分には他の区分から移すか、新しいボールを足しています。個々のボールが特定の人や国を表すわけではありません。
 
